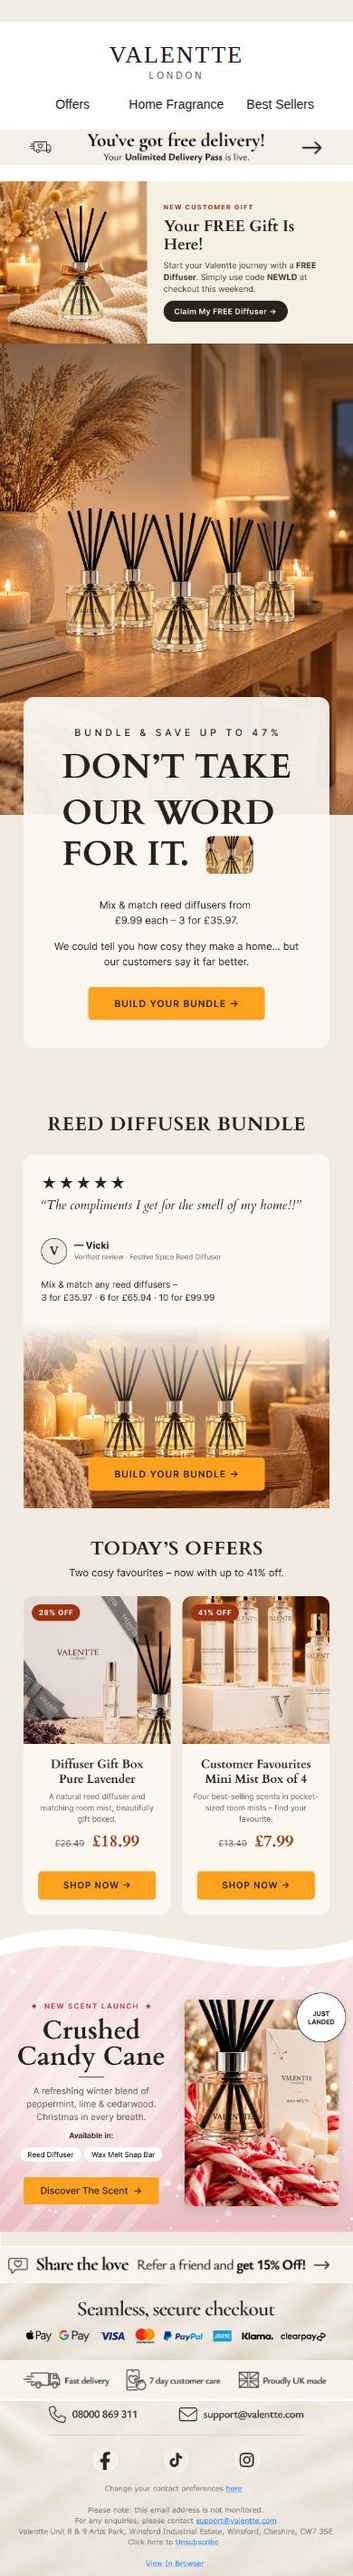
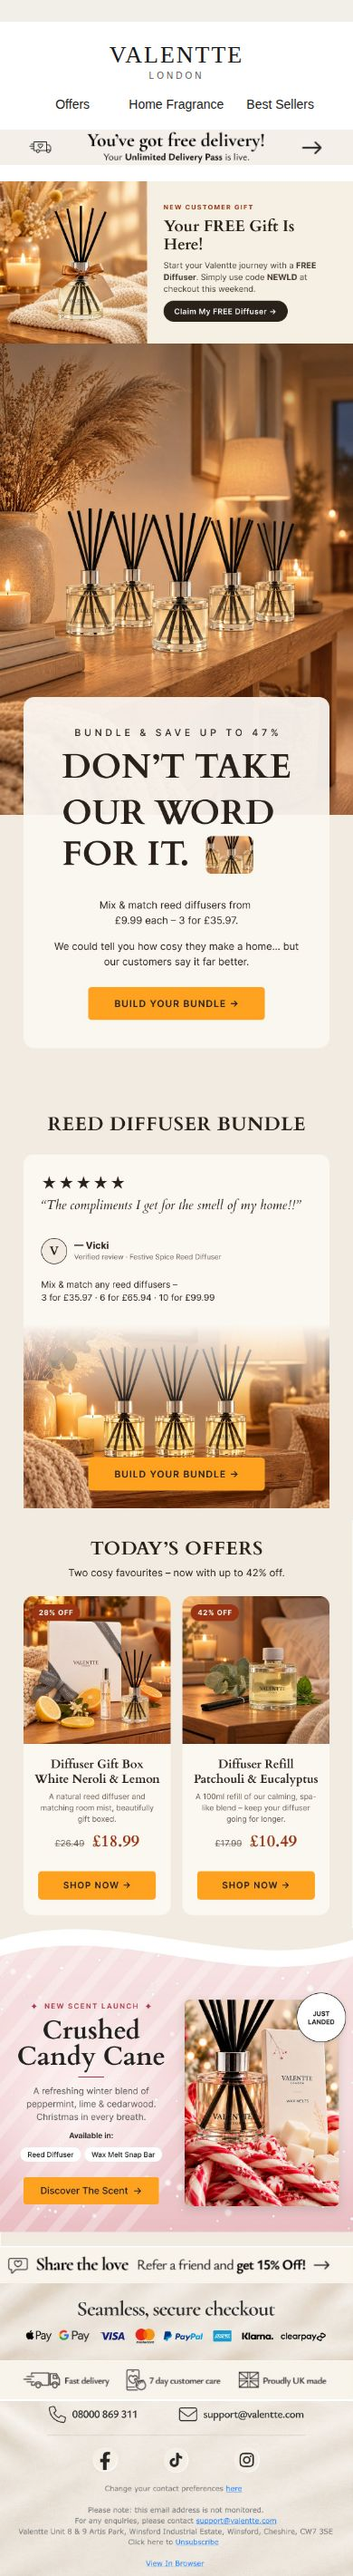
Fri 16/10 AM: swap offers to White Neroli & Lemon gift box and Patchouli & Eucalyptus refill
Claude-Session: https://claude.ai/code/session_01TpUJ2cy35Kours3zuWLZDp

Changed region(s): [[0.0615, 0.6193, 0.9538, 0.7431]]

diff --git a/emails/fri-16-10-am/am-16-10-new-customers.html b/emails/fri-16-10-am/am-16-10-new-customers.html
@@ -51,7 +51,7 @@
 </style>
 <style></style></head>
 <body style="margin:0;padding:0;background:#f2efe9;">
-<div style="display:none;max-height:0;overflow:hidden;">Real reviews, real homes – plus bundle &amp; save up to 47% on reed diffusers and offers from £7.99.</div>
+<div style="display:none;max-height:0;overflow:hidden;">Real reviews, real homes – plus bundle &amp; save up to 47% on reed diffusers and offers from £10.49.</div>
 
 <table role="presentation" width="100%" cellpadding="0" cellspacing="0" style="background:#f2efe9;">
 <tbody><tr><td align="center" style="padding: 24px 0px 0px;">
@@ -85,8 +85,8 @@
   <tr><td bgcolor="#f2ebe1" style="background:#f2ebe1;padding:0;font-size:0;line-height:0;"><a href="https://valentte.com/reed-diffuser-bundle/?VNCFG=1" target="_blank" style="display:block;text-decoration:none;"><img src="https://d2ol7oe51mr4n9.cloudfront.net/user_3J5VVo50uL70F327Y6AS8CqWwV6/60a5e1e3-7a87-4446-92c0-55c22b7b42d0.jpg" width="600" height="600" alt="Five Valentte reed diffusers on an oak console in a cosy, candlelit hallway" style="display:block;width:100%;max-width:600px;height:auto;border:0;"></a></td></tr>
   <tr><td bgcolor="#f2ebe1" style="background:#f2ebe1;padding:0;font-size:0;line-height:0;"><a href="https://valentte.com/reed-diffuser-bundle/?VNCFG=1" target="_blank" style="display:block;text-decoration:none;"><img src="https://d2ol7oe51mr4n9.cloudfront.net/user_3J5VVo50uL70F327Y6AS8CqWwV6/732019bd-c752-4263-a832-b7890204c1dd.jpg" width="600" height="666" alt="Bundle &amp; save up to 47%. Don’t take our word for it. Mix &amp; match reed diffusers from £9.99 each – 3 for £35.97. We could tell you how cosy they make a home… but our customers say it far better. Build your bundle" style="display:block;width:100%;max-width:600px;height:auto;border:0;"></a></td></tr>
   <tr><td bgcolor="#f2ebe1" style="background:#f2ebe1;padding:0;font-size:0;line-height:0;"><a href="https://valentte.com/reed-diffuser-bundle/?VNCFG=1" target="_blank" style="display:block;text-decoration:none;"><img src="https://d2ol7oe51mr4n9.cloudfront.net/user_3J5VVo50uL70F327Y6AS8CqWwV6/daa8e08a-b18e-4569-acf9-1bba0816404b.jpg" width="600" height="730" alt="Reed diffuser bundle – 5 stars: “The compliments I get for the smell of my home!!” – Vicki, verified review, Festive Spice Reed Diffuser. Mix &amp; match any reed diffusers – 3 for £35.97, 6 for £65.94, 10 for £99.99. Build your bundle" style="display:block;width:100%;max-width:600px;height:auto;border:0;"></a></td></tr>
-  <tr><td bgcolor="#f2ebe1" style="background:#f2ebe1;padding:0;font-size:0;line-height:0;"><a href="https://valentte.com/reed-diffuser-bundle/?VNCFG=1" target="_blank" style="display:block;text-decoration:none;"><img src="https://d2ol7oe51mr4n9.cloudfront.net/user_3J5VVo50uL70F327Y6AS8CqWwV6/53fdc69b-7f8e-4fcc-97f4-b3df075e95ef.jpg" width="600" height="130" alt="Today’s offers – two cosy favourites, now with up to 41% off" style="display:block;width:100%;max-width:600px;height:auto;border:0;"></a></td></tr>
-  <tr><td bgcolor="#f2ebe1" style="background:#f2ebe1;padding:0;font-size:0;line-height:0;"><table role="presentation" width="100%" cellpadding="0" cellspacing="0" border="0" style="width:100%;border-collapse:collapse;"><tr><td width="50%" valign="top" style="width:50%;padding:0;font-size:0;line-height:0;"><a href="https://valentte.com/organic/original-diffuser-gift-box-pure-lavender/?VNCFG=1" target="_blank" style="display:block;text-decoration:none;"><img src="https://d2ol7oe51mr4n9.cloudfront.net/user_3J5VVo50uL70F327Y6AS8CqWwV6/11c11284-09b0-4ea3-944d-fe589173b893.jpg" width="300" height="562" alt="28% off – Original Diffuser Gift Box – Pure Lavender. A natural reed diffuser and matching room mist, beautifully gift boxed. Was £26.49, now £18.99. Shop now" style="display:block;width:100%;max-width:300px;height:auto;border:0;"></a></td><td width="50%" valign="top" style="width:50%;padding:0;font-size:0;line-height:0;"><a href="https://valentte.com/organic/customer-favourites-mini-mist-box-of-4/?VNCFG=1" target="_blank" style="display:block;text-decoration:none;"><img src="https://d2ol7oe51mr4n9.cloudfront.net/user_3J5VVo50uL70F327Y6AS8CqWwV6/fa90aba4-96a0-4f13-8304-e1f12b35a726.jpg" width="300" height="562" alt="41% off – Customer Favourites Mini Mist Box of 4. Four best-selling scents in pocket-sized room mists. Was £13.49, now £7.99. Shop now" style="display:block;width:100%;max-width:300px;height:auto;border:0;"></a></td></tr></table></td></tr>
+  <tr><td bgcolor="#f2ebe1" style="background:#f2ebe1;padding:0;font-size:0;line-height:0;"><a href="https://valentte.com/reed-diffuser-bundle/?VNCFG=1" target="_blank" style="display:block;text-decoration:none;"><img src="https://d2ol7oe51mr4n9.cloudfront.net/user_3J5VVo50uL70F327Y6AS8CqWwV6/a70bdf17-bc92-4bcc-8707-7dee97d74c9d.jpg" width="600" height="130" alt="Today’s offers – two cosy favourites, now with up to 42% off" style="display:block;width:100%;max-width:600px;height:auto;border:0;"></a></td></tr>
+  <tr><td bgcolor="#f2ebe1" style="background:#f2ebe1;padding:0;font-size:0;line-height:0;"><table role="presentation" width="100%" cellpadding="0" cellspacing="0" border="0" style="width:100%;border-collapse:collapse;"><tr><td width="50%" valign="top" style="width:50%;padding:0;font-size:0;line-height:0;"><a href="https://valentte.com/organic/original-diffuser-gift-box-white-neroli-lemon/?VNCFG=1" target="_blank" style="display:block;text-decoration:none;"><img src="https://d2ol7oe51mr4n9.cloudfront.net/user_3J5VVo50uL70F327Y6AS8CqWwV6/2b5d9fbc-2bdc-41a2-9fd5-7eec1d31b6d7.jpg" width="300" height="562" alt="28% off – Original Diffuser Gift Box – White Neroli &amp; Lemon. A natural reed diffuser and matching room mist, beautifully gift boxed. Was £26.49, now £18.99. Shop now" style="display:block;width:100%;max-width:300px;height:auto;border:0;"></a></td><td width="50%" valign="top" style="width:50%;padding:0;font-size:0;line-height:0;"><a href="https://valentte.com/organic/patchouli-and-eucalyptus-100ml-diffuser-refill/?VNCFG=1" target="_blank" style="display:block;text-decoration:none;"><img src="https://d2ol7oe51mr4n9.cloudfront.net/user_3J5VVo50uL70F327Y6AS8CqWwV6/44ea6680-0b85-42e9-8e30-004c3f10561c.jpg" width="300" height="562" alt="42% off – 100ml Diffuser Refill – Patchouli &amp; Eucalyptus. A 100ml refill of our calming, spa-like blend. Was £17.99, now £10.49. Shop now" style="display:block;width:100%;max-width:300px;height:auto;border:0;"></a></td></tr></table></td></tr>
   <!-- FEATURE BANNER – New Launch: Crushed Candy Cane (+24px spacer) -->
   <tr><td bgcolor="#f2ebe1" style="background:#f2ebe1;padding:0;font-size:0;line-height:0;"><a href="https://valentte.com/shop-by-scent/crushed-candy-cane/?VNCFG=1" target="_blank" style="display:block;text-decoration:none;"><img src="https://d2ol7oe51mr4n9.cloudfront.net/user_3J5VVo50uL70F327Y6AS8CqWwV6/b9ff9e92-1b02-4dab-9297-2435d0e5e2c9.jpg" width="600" height="540" alt="New scent launch – Crushed Candy Cane. A refreshing winter blend of peppermint, lime &amp; cedarwood. Christmas in every breath. Available in Reed Diffuser and Wax Melt Snap Bar. Just landed. Discover the scent" style="display:block;width:100%;max-width:600px;height:auto;border:0;"></a></td></tr>
 

diff --git a/emails/fri-16-10-am/am-16-10-existing-customers.html b/emails/fri-16-10-am/am-16-10-existing-customers.html
@@ -51,7 +51,7 @@
 </style>
 <style></style></head>
 <body style="margin:0;padding:0;background:#f2efe9;">
-<div style="display:none;max-height:0;overflow:hidden;">Real reviews, real homes – plus bundle &amp; save up to 47% on reed diffusers and offers from £7.99.</div>
+<div style="display:none;max-height:0;overflow:hidden;">Real reviews, real homes – plus bundle &amp; save up to 47% on reed diffusers and offers from £10.49.</div>
 
 <table role="presentation" width="100%" cellpadding="0" cellspacing="0" style="background:#f2efe9;">
 <tbody><tr><td align="center" style="padding: 24px 0px 0px;">
@@ -85,8 +85,8 @@
   <tr><td bgcolor="#f2ebe1" style="background:#f2ebe1;padding:0;font-size:0;line-height:0;"><a href="https://valentte.com/reed-diffuser-bundle/" target="_blank" style="display:block;text-decoration:none;"><img src="https://d2ol7oe51mr4n9.cloudfront.net/user_3J5VVo50uL70F327Y6AS8CqWwV6/60a5e1e3-7a87-4446-92c0-55c22b7b42d0.jpg" width="600" height="600" alt="Five Valentte reed diffusers on an oak console in a cosy, candlelit hallway" style="display:block;width:100%;max-width:600px;height:auto;border:0;"></a></td></tr>
   <tr><td bgcolor="#f2ebe1" style="background:#f2ebe1;padding:0;font-size:0;line-height:0;"><a href="https://valentte.com/reed-diffuser-bundle/" target="_blank" style="display:block;text-decoration:none;"><img src="https://d2ol7oe51mr4n9.cloudfront.net/user_3J5VVo50uL70F327Y6AS8CqWwV6/ed7c5668-0be6-469e-9fd6-824d4af0d73f.jpg" width="600" height="666" alt="Bundle &amp; save up to 47%. Don’t take our word for it. Mix &amp; match reed diffusers from £9.99 each – 3 for £35.97. We could tell you how cosy they make a home… but our customers say it far better. Build your bundle" style="display:block;width:100%;max-width:600px;height:auto;border:0;"></a></td></tr>
   <tr><td bgcolor="#f2ebe1" style="background:#f2ebe1;padding:0;font-size:0;line-height:0;"><a href="https://valentte.com/reed-diffuser-bundle/" target="_blank" style="display:block;text-decoration:none;"><img src="https://d2ol7oe51mr4n9.cloudfront.net/user_3J5VVo50uL70F327Y6AS8CqWwV6/daa8e08a-b18e-4569-acf9-1bba0816404b.jpg" width="600" height="730" alt="Reed diffuser bundle – 5 stars: “The compliments I get for the smell of my home!!” – Vicki, verified review, Festive Spice Reed Diffuser. Mix &amp; match any reed diffusers – 3 for £35.97, 6 for £65.94, 10 for £99.99. Build your bundle" style="display:block;width:100%;max-width:600px;height:auto;border:0;"></a></td></tr>
-  <tr><td bgcolor="#f2ebe1" style="background:#f2ebe1;padding:0;font-size:0;line-height:0;"><a href="https://valentte.com/reed-diffuser-bundle/" target="_blank" style="display:block;text-decoration:none;"><img src="https://d2ol7oe51mr4n9.cloudfront.net/user_3J5VVo50uL70F327Y6AS8CqWwV6/53fdc69b-7f8e-4fcc-97f4-b3df075e95ef.jpg" width="600" height="130" alt="Today’s offers – two cosy favourites, now with up to 41% off" style="display:block;width:100%;max-width:600px;height:auto;border:0;"></a></td></tr>
-  <tr><td bgcolor="#f2ebe1" style="background:#f2ebe1;padding:0;font-size:0;line-height:0;"><table role="presentation" width="100%" cellpadding="0" cellspacing="0" border="0" style="width:100%;border-collapse:collapse;"><tr><td width="50%" valign="top" style="width:50%;padding:0;font-size:0;line-height:0;"><a href="https://valentte.com/organic/original-diffuser-gift-box-pure-lavender/" target="_blank" style="display:block;text-decoration:none;"><img src="https://d2ol7oe51mr4n9.cloudfront.net/user_3J5VVo50uL70F327Y6AS8CqWwV6/11c11284-09b0-4ea3-944d-fe589173b893.jpg" width="300" height="562" alt="28% off – Original Diffuser Gift Box – Pure Lavender. A natural reed diffuser and matching room mist, beautifully gift boxed. Was £26.49, now £18.99. Shop now" style="display:block;width:100%;max-width:300px;height:auto;border:0;"></a></td><td width="50%" valign="top" style="width:50%;padding:0;font-size:0;line-height:0;"><a href="https://valentte.com/organic/customer-favourites-mini-mist-box-of-4/" target="_blank" style="display:block;text-decoration:none;"><img src="https://d2ol7oe51mr4n9.cloudfront.net/user_3J5VVo50uL70F327Y6AS8CqWwV6/fa90aba4-96a0-4f13-8304-e1f12b35a726.jpg" width="300" height="562" alt="41% off – Customer Favourites Mini Mist Box of 4. Four best-selling scents in pocket-sized room mists. Was £13.49, now £7.99. Shop now" style="display:block;width:100%;max-width:300px;height:auto;border:0;"></a></td></tr></table></td></tr>
+  <tr><td bgcolor="#f2ebe1" style="background:#f2ebe1;padding:0;font-size:0;line-height:0;"><a href="https://valentte.com/reed-diffuser-bundle/" target="_blank" style="display:block;text-decoration:none;"><img src="https://d2ol7oe51mr4n9.cloudfront.net/user_3J5VVo50uL70F327Y6AS8CqWwV6/a70bdf17-bc92-4bcc-8707-7dee97d74c9d.jpg" width="600" height="130" alt="Today’s offers – two cosy favourites, now with up to 42% off" style="display:block;width:100%;max-width:600px;height:auto;border:0;"></a></td></tr>
+  <tr><td bgcolor="#f2ebe1" style="background:#f2ebe1;padding:0;font-size:0;line-height:0;"><table role="presentation" width="100%" cellpadding="0" cellspacing="0" border="0" style="width:100%;border-collapse:collapse;"><tr><td width="50%" valign="top" style="width:50%;padding:0;font-size:0;line-height:0;"><a href="https://valentte.com/organic/original-diffuser-gift-box-white-neroli-lemon/" target="_blank" style="display:block;text-decoration:none;"><img src="https://d2ol7oe51mr4n9.cloudfront.net/user_3J5VVo50uL70F327Y6AS8CqWwV6/2b5d9fbc-2bdc-41a2-9fd5-7eec1d31b6d7.jpg" width="300" height="562" alt="28% off – Original Diffuser Gift Box – White Neroli &amp; Lemon. A natural reed diffuser and matching room mist, beautifully gift boxed. Was £26.49, now £18.99. Shop now" style="display:block;width:100%;max-width:300px;height:auto;border:0;"></a></td><td width="50%" valign="top" style="width:50%;padding:0;font-size:0;line-height:0;"><a href="https://valentte.com/organic/patchouli-and-eucalyptus-100ml-diffuser-refill/" target="_blank" style="display:block;text-decoration:none;"><img src="https://d2ol7oe51mr4n9.cloudfront.net/user_3J5VVo50uL70F327Y6AS8CqWwV6/44ea6680-0b85-42e9-8e30-004c3f10561c.jpg" width="300" height="562" alt="42% off – 100ml Diffuser Refill – Patchouli &amp; Eucalyptus. A 100ml refill of our calming, spa-like blend. Was £17.99, now £10.49. Shop now" style="display:block;width:100%;max-width:300px;height:auto;border:0;"></a></td></tr></table></td></tr>
   <!-- FEATURE BANNER – New Launch: Crushed Candy Cane (+24px spacer) -->
   <tr><td bgcolor="#f2ebe1" style="background:#f2ebe1;padding:0;font-size:0;line-height:0;"><a href="https://valentte.com/shop-by-scent/crushed-candy-cane/" target="_blank" style="display:block;text-decoration:none;"><img src="https://d2ol7oe51mr4n9.cloudfront.net/user_3J5VVo50uL70F327Y6AS8CqWwV6/f9d0159f-210a-4ea2-935b-d8949c26f640.jpg" width="600" height="540" alt="New scent launch – Crushed Candy Cane. A refreshing winter blend of peppermint, lime &amp; cedarwood. Christmas in every breath. Available in Reed Diffuser and Wax Melt Snap Bar. Just landed. Discover the scent" style="display:block;width:100%;max-width:600px;height:auto;border:0;"></a></td></tr>
 

diff --git a/emails/fri-16-10-am/README.md b/emails/fri-16-10-am/README.md
@@ -6,7 +6,7 @@ Valentte reviews. Editable frames: `21750:198` New Customers, `21750:302` Existi
 | Item | Value |
 |---|---|
 | Subject | Don’t take our word for it… 🏡 Bundle & save up to 47% |
-| Preheader | Real reviews, real homes – plus bundle & save up to 47% on reed diffusers and offers from £7.99. |
+| Preheader | Real reviews, real homes – plus bundle & save up to 47% on reed diffusers and offers from £10.49. |
 | Frequency policy | Unlimited Policy |
 
 ## Sections
@@ -15,8 +15,9 @@ Valentte reviews. Editable frames: `21750:198` New Customers, `21750:302` Existi
 3. Hero (bundle): Higgsfield restyle of five real Valentte reed diffusers in a cosy hallway; card "Bundle & save up to 47% – Don’t take our word for it." → bundle
 4. Review card – Reed Diffuser Bundle – Vicki (Festive Spice Reed Diffuser): “The compliments I get for the smell of my home!!” → bundle
 5. **Today’s offers** – product-focused, two cards side by side (stay side by side on mobile), each linking to its own product:
-   - Original Diffuser Gift Box – Pure Lavender: 28% OFF badge, £26.49 → £18.99, Shop now
-   - Customer Favourites Mini Mist Box of 4: 41% OFF badge, £13.49 → £7.99, Shop now
+   - Original Diffuser Gift Box – White Neroli & Lemon: 28% OFF badge, £26.49 → £18.99, Shop now
+   - 100ml Diffuser Refill – Patchouli & Eucalyptus: 42% OFF badge, £17.99 → £10.49, Shop now
+   (Offer prices as Ruby confirmed – the catalogue showed full price on 8 Oct. Product images: Higgsfield cosy restyles of the official product photos, labels unchanged.)
 6. Feature banner – New Launch: Crushed Candy Cane (from the Mon 12/10 Evening email) → `/shop-by-scent/crushed-candy-cane/`, with a 24px spacer
 7. Zac footer
 
